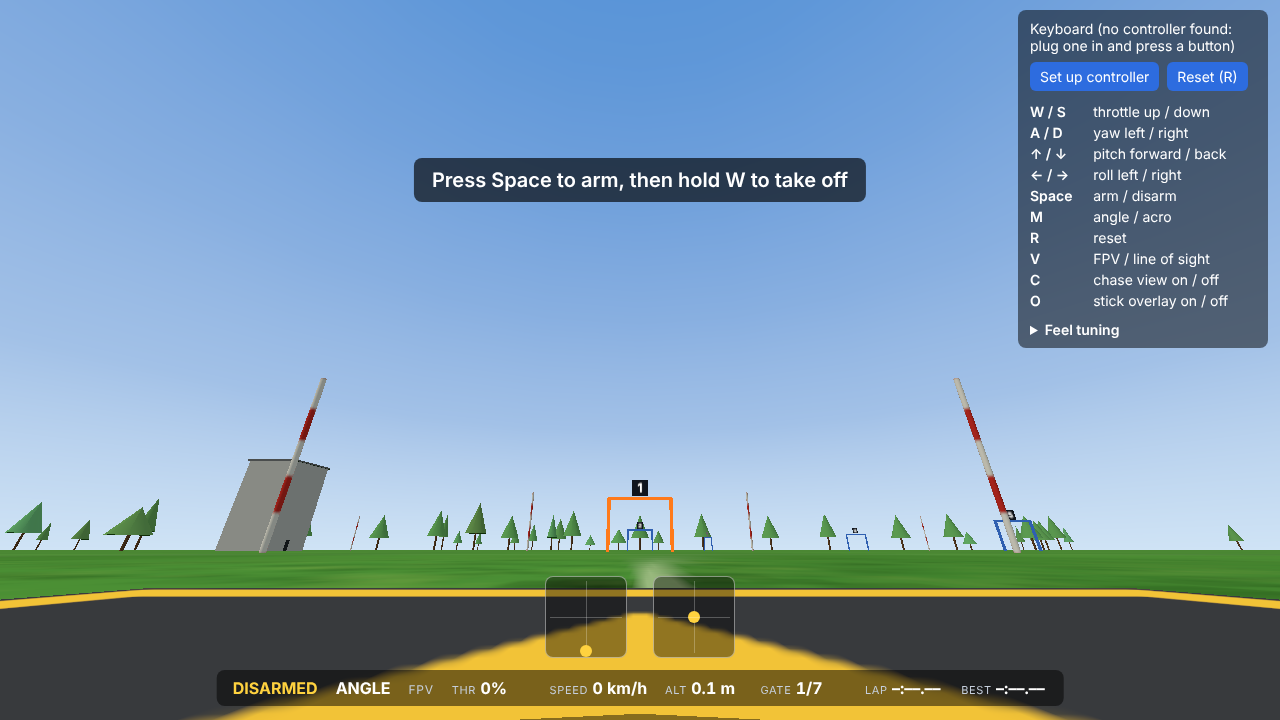
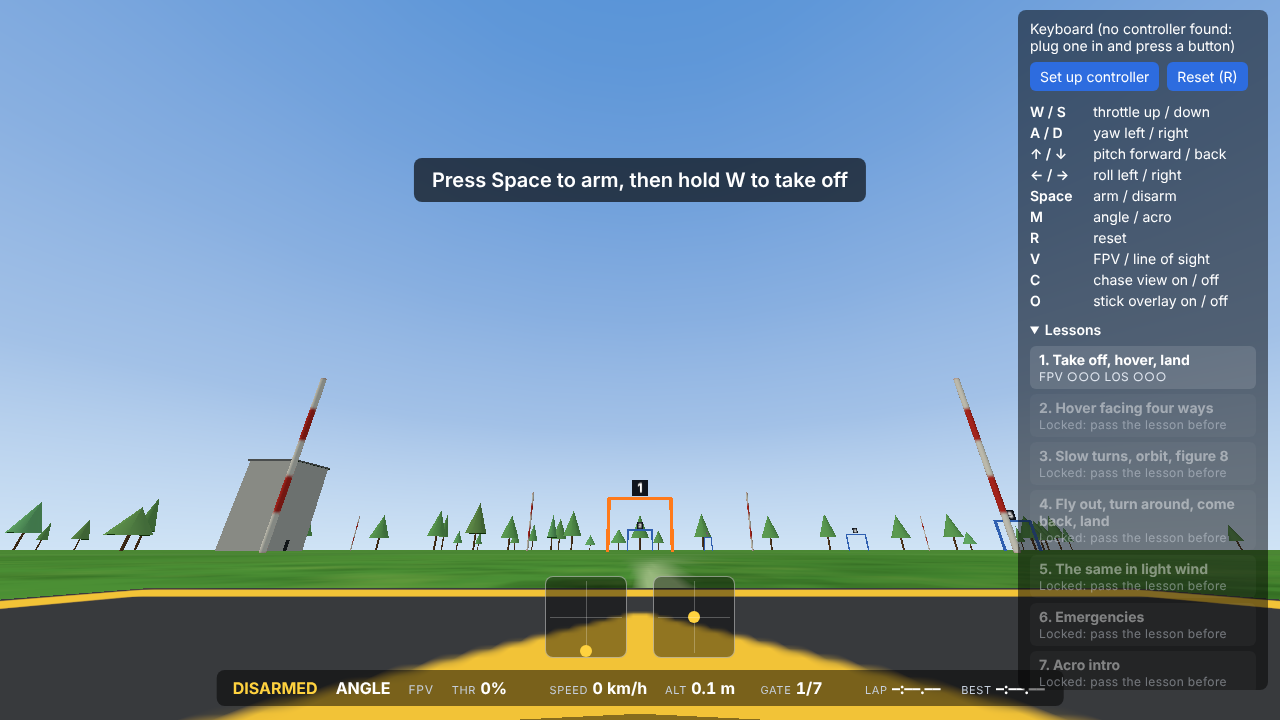
M6 ticked: 8 lessons, wind, Ready badge, controller reset; proof screenshots from the full browser run (96 checks); hand over

Changed region(s): [[0.7812, 0.4278, 1.0, 0.9472]]

diff --git a/PROGRESS.md b/PROGRESS.md
@@ -1,7 +1,7 @@
 # PROGRESS — the relay's log (newest at the bottom)
 
 Status: **IN PROGRESS**
-Next: **M6 Beginner path, in progress.** Done: PlayStation checklist, stick overlay, line-of-sight view (V), ground shadow. Left, in this order: (1) the 8 lessons from PLAN.md wired into the page (reshape `src/skills.js`: it has the 3-in-a-row gating, recorder and scoring but the old skill list and is not on the page; lesson 1 carries the line "On a real radio the throttle stays where you leave it"), lessons 1 to 4 passable in both FPV and line of sight; (2) light wind for lesson 5 (needs a sourced wind speed and a wind force in `physics.js`); (3) the "Ready" check and badge; (4) a "reset this controller" button. Open real-data items, for whichever leg has time and for the M7 report: Trainer modelled on a real beginner quad (PLAN; specs so far in `docs/feel.md` note 7), flight-log replay (not possible from the sandbox, `docs/feel.md` note 6), the F5 thrust rows checked by eye.
+Next: **M6b Look** (PLAN.md: sun with real shadows, sky lighting, tone mapping, haze, ground detail, quality setting low/high), one leg at most, then **M7 Finish** (README, 60 fps statement, final screenshots, final report to Mike, turn the relay off). If a leg is short on time, skip M6b and do M7. For the M7 report: the UNSOURCED rows in `docs/feel.md` note 6 and `docs/physics.md` (lesson limits, quadratic drag), Trainer not yet modelled on a real beginner quad (`docs/feel.md` note 7), flight-log replay not possible from the sandbox (note 6), the F5 thrust rows checked by eye, the real frame rate and Mike's real controller untested. Worth doing in M7 if time: lessons are chosen with the mouse (no controller button for it), and nobody has flown them by hand, only the test pilot.
 Live link: https://mickethegeek.github.io/fpv-sim/ (not checkable from the cloud sandbox, see Assumptions)
 
 ## Milestones
@@ -11,7 +11,7 @@ Live link: https://mickethegeek.github.io/fpv-sim/ (not checkable from the cloud
 - [x] M3 FPV view + world  ← Mike notified
 - [x] M4 Gates + timer
 - [x] M5 Feel (top priority)  ← every PLAN bullet done and checked in Chrome; the real-data validation added to PLAN at 10:53 is the next step, see Next
-- [ ] M6 Beginner path + line-of-sight view
+- [x] M6 Beginner path + line-of-sight view
 - [ ] M6b Look (if time)
 - [ ] M7 Finish  ← notify Mike when done
 
@@ -59,6 +59,15 @@ Live link: https://mickethegeek.github.io/fpv-sim/ (not checkable from the cloud
 - Motor idle 5.5 % (Betaflight default). Gamepad deadzone stays 5 %: UNSOURCED, slider in the panel.
 - A controller mapped through the setup screen is treated as a radio (linear throttle), also when it is a PlayStation pad: the setup screen does not ask whether the throttle stick springs back. To get the default back, clear the site data. A "reset this controller" button is still to do.
 
+- Lessons (M6): a run is "good" when every step is done and the measured values are inside limits: touchdown under 1.5 m/s, top speed under 8 m/s in the turns lesson and the Ready check, disarm within 1.0 s of the call, headings within 20°. All four limits are judgements (UNSOURCED, listed in `docs/physics.md`); change them at the top of `src/lessons.js`.
+- Lessons 1 to 4 need 3 good runs in a row in FPV and 3 in line of sight; lessons 5 to 7 need 3 in a row in any one view; the Ready check needs one good run (PLAN: "one run"). A chase-view run does not count for lessons 1 to 4.
+- Lesson markers are near the pad (cones 8.6 m out, far ring 12 m out) instead of the poles 16 m away, so the quad stays readable in line of sight. Cones and rings are not obstacles.
+- Light wind = 2.6 m/s steady from the left (Beaufort 2, Met Office), no gusts. Wind does not push a quad sitting on the ground.
+- "Recover when you lose orientation" (lesson 6, Ready check): at the far ring the quad is turned to a random heading (90 to 270° off) in one frame, as if a gust spun it; the pilot has to work out where it points and come back. A real gust does not turn a quad that fast: this is a drill, not physics.
+- Disarm drill: the call comes after 1.5 to 4.5 s of hovering under 1.5 m; the quad then drops (under the 6 m/s crash speed from that height).
+- First visit opens lesson 1 (the next unpassed lesson on later visits). `?free` in the link opens free flight, `?unlock` opens every lesson without passing the ones before. After a pass the next lesson is selected by itself when the quad is disarmed.
+- Choosing a lesson sets angle or acro mode for it. Lessons are chosen with the mouse in the side panel; there is no controller button for it.
+
 ## Notes for the next leg
 - After any physics or controller change: `node test/feel.mjs` and update the tables in `docs/feel.md`.
 - Run: `npm test` (38 unit tests), `node test/mutations.mjs` (proof each test fails on a broken model, 13 breakages), `node test/flight.mjs Mx` (browser, screenshots to proof/Mx/; add your milestone's steps after the M1 block).
@@ -82,6 +91,12 @@ Live link: https://mickethegeek.github.io/fpv-sim/ (not checkable from the cloud
 - Controllers: profiles per controller id in `input.profiles` (storage `fpvsim.controllers.v2`); default pad buttons R1 arm (5), L1 mode (4), Options reset (9), triangle view (3); `buttonNames(id)` gives the on-screen names.
 - Full browser run without touching the proof folders: `node test/flight.mjs tmpcheck` then delete `proof/tmpcheck`. 78 checks, about 2.5 minutes. `node test/flight.mjs M6 M6` runs only the M6 block.
 
+- Lessons: `src/lessons.js` (pure: `LESSONS` with steps of type box / orbit / reach / land / disarm / rearm / spin, `createAttempt`, `attemptUpdate` once per frame, `attemptResult`, progress per lesson and view under storage key `fpvsim.lessons.v1`). `main.js`: `setLesson`, `lessonFrame`, `renderLessons`, `lessonMarks`; test hook `__sim.setLesson(id)`, `__sim.attempt`, `snapshot().lesson / .card / .progress / .wind`. Wind is `sim.quad.wind` (read in `physics.js`).
+- `createLessonPilot` in `test/autopilot.mjs` flies any lesson (unit tests in `test/unit/lessons.test.mjs`; in Chrome in the `M6L` block of `test/flight.mjs`, about 7 minutes: run it in the background with output to a file, a foreground run hits the 10-minute command limit). `setPilotQuad` tells the pilots which quad they fly (the page defaults to Trainer).
+- Old flight-script blocks open the page with `&free` so they stay in free flight.
+- `src/skills.js` is gone (replaced by `src/lessons.js`).
+- "Reset this controller" button (shown only for a controller with a saved setup): `input.forget(id)`.
+
 ## Real flight data: what was found (scouting, 2026-11-16 11:10 UTC, nothing downloaded yet)
 - Best match: TII "Race Against the Machine" dataset, 5-inch, 6S, about 870 g, Betaflight 4.3.1, piloted flights with RC channels (100 Hz) + gyro (500 Hz) + motor thrust in CSV; the repo also has the quad's Betaflight CLI backup (`quadrotor/BTFL_cli_backup.txt`: its real rates and PIDs). Repo https://github.com/tii-racing/drone-racing-dataset . Problem: the CSVs only come inside release zips of 12 GB (piloted), bundled with images. Too big for a leg unless a per-flight CSV link exists; look in the repo for one.
 - Raw blackbox logs, airframe not stated (read the log header first): https://raw.githubusercontent.com/Plasmatree/PID-Analyzer/master/good_tune.BBL (4.8 MB), `.../stock_tune.BFL` (13 MB); https://raw.githubusercontent.com/pichim/bf_controller_tuning/main/logs/example_logs/Gyro_Angle.TXT (27 MB, chirp test, 2026 firmware).
@@ -104,3 +119,4 @@ Live link: https://mickethegeek.github.io/fpv-sim/ (not checkable from the cloud
 - 2026-11-16 11:17 UTC · real-data pass: second 2207 6S thrust table read directly (exponent 1.45 against 1.24), middle 1.35 used, hover now 15.2 % (Trainer 21.7 %); real race-quad Betaflight settings found; flight-log replay tried and not possible from the sandbox (web tool keeps no binary files), written up in docs/feel.md note 6 · next: M6
 - 2026-11-16 11:25 UTC · M6 PlayStation checklist: arm on R1, angle/acro on L1, reset on Options, names shown on screen, one saved profile per controller (old saved mapping still read), setup opens by itself for a non-standard controller; 43 unit tests, 74 browser checks · next: M6 stick overlay, line-of-sight view, lessons
 - 2026-11-16 11:32 UTC · M6: live stick overlay (O), line-of-sight view (V or triangle) with the pilot standing behind the pad, ground shadow, light quad model; 43 unit tests, 78 browser checks, proof/M6/ · next: the 8 lessons
+- 2026-11-16 16:31 UTC · M6 ticked: the 8 lessons on the page (steps checked from the flying, 3 good runs in a row per view, lessons 1 to 4 in FPV and line of sight, measured landing / speed / disarm reaction), light wind 2.6 m/s (Beaufort 2, cited) in the physics, disarm and lost-orientation drills, Ready check and badge, next lesson selected by itself, Reset this controller button; 54 unit tests (a test pilot flies all 8 lessons on the real physics), 96 browser checks incl. every lesson flown in Chrome, proof/M6/40 to 55 · next: M6b Look (one leg at most), then M7
